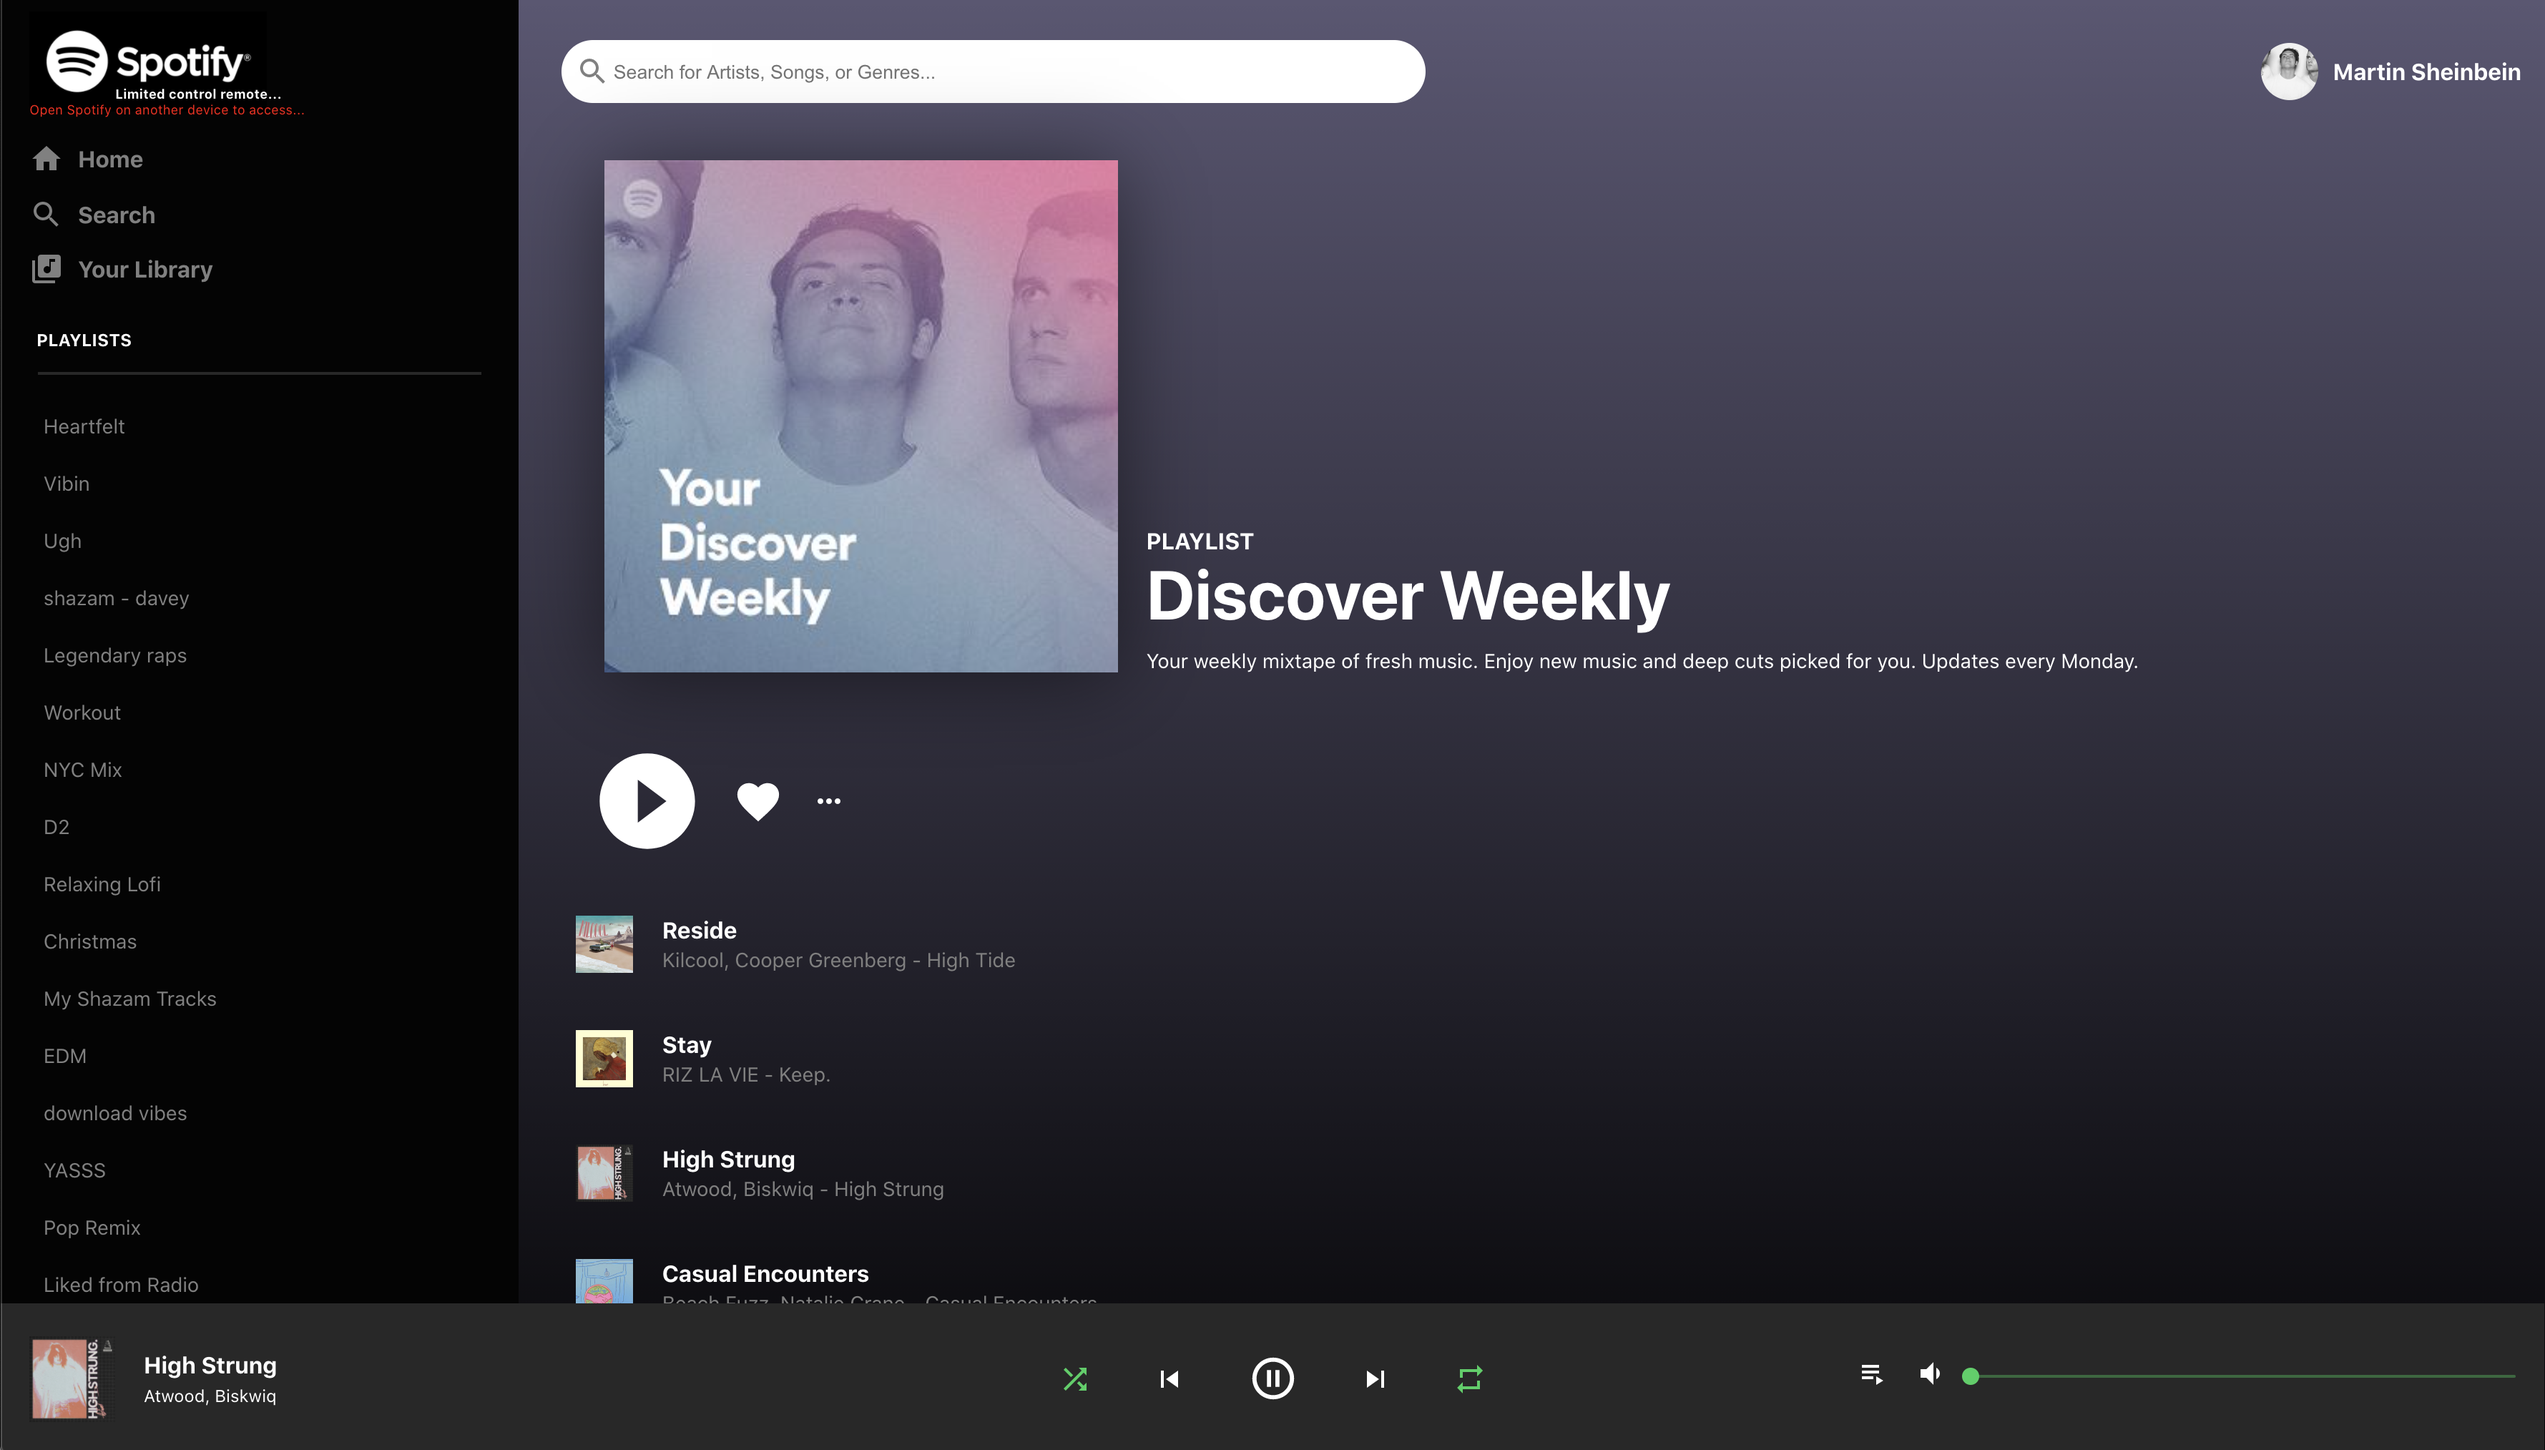
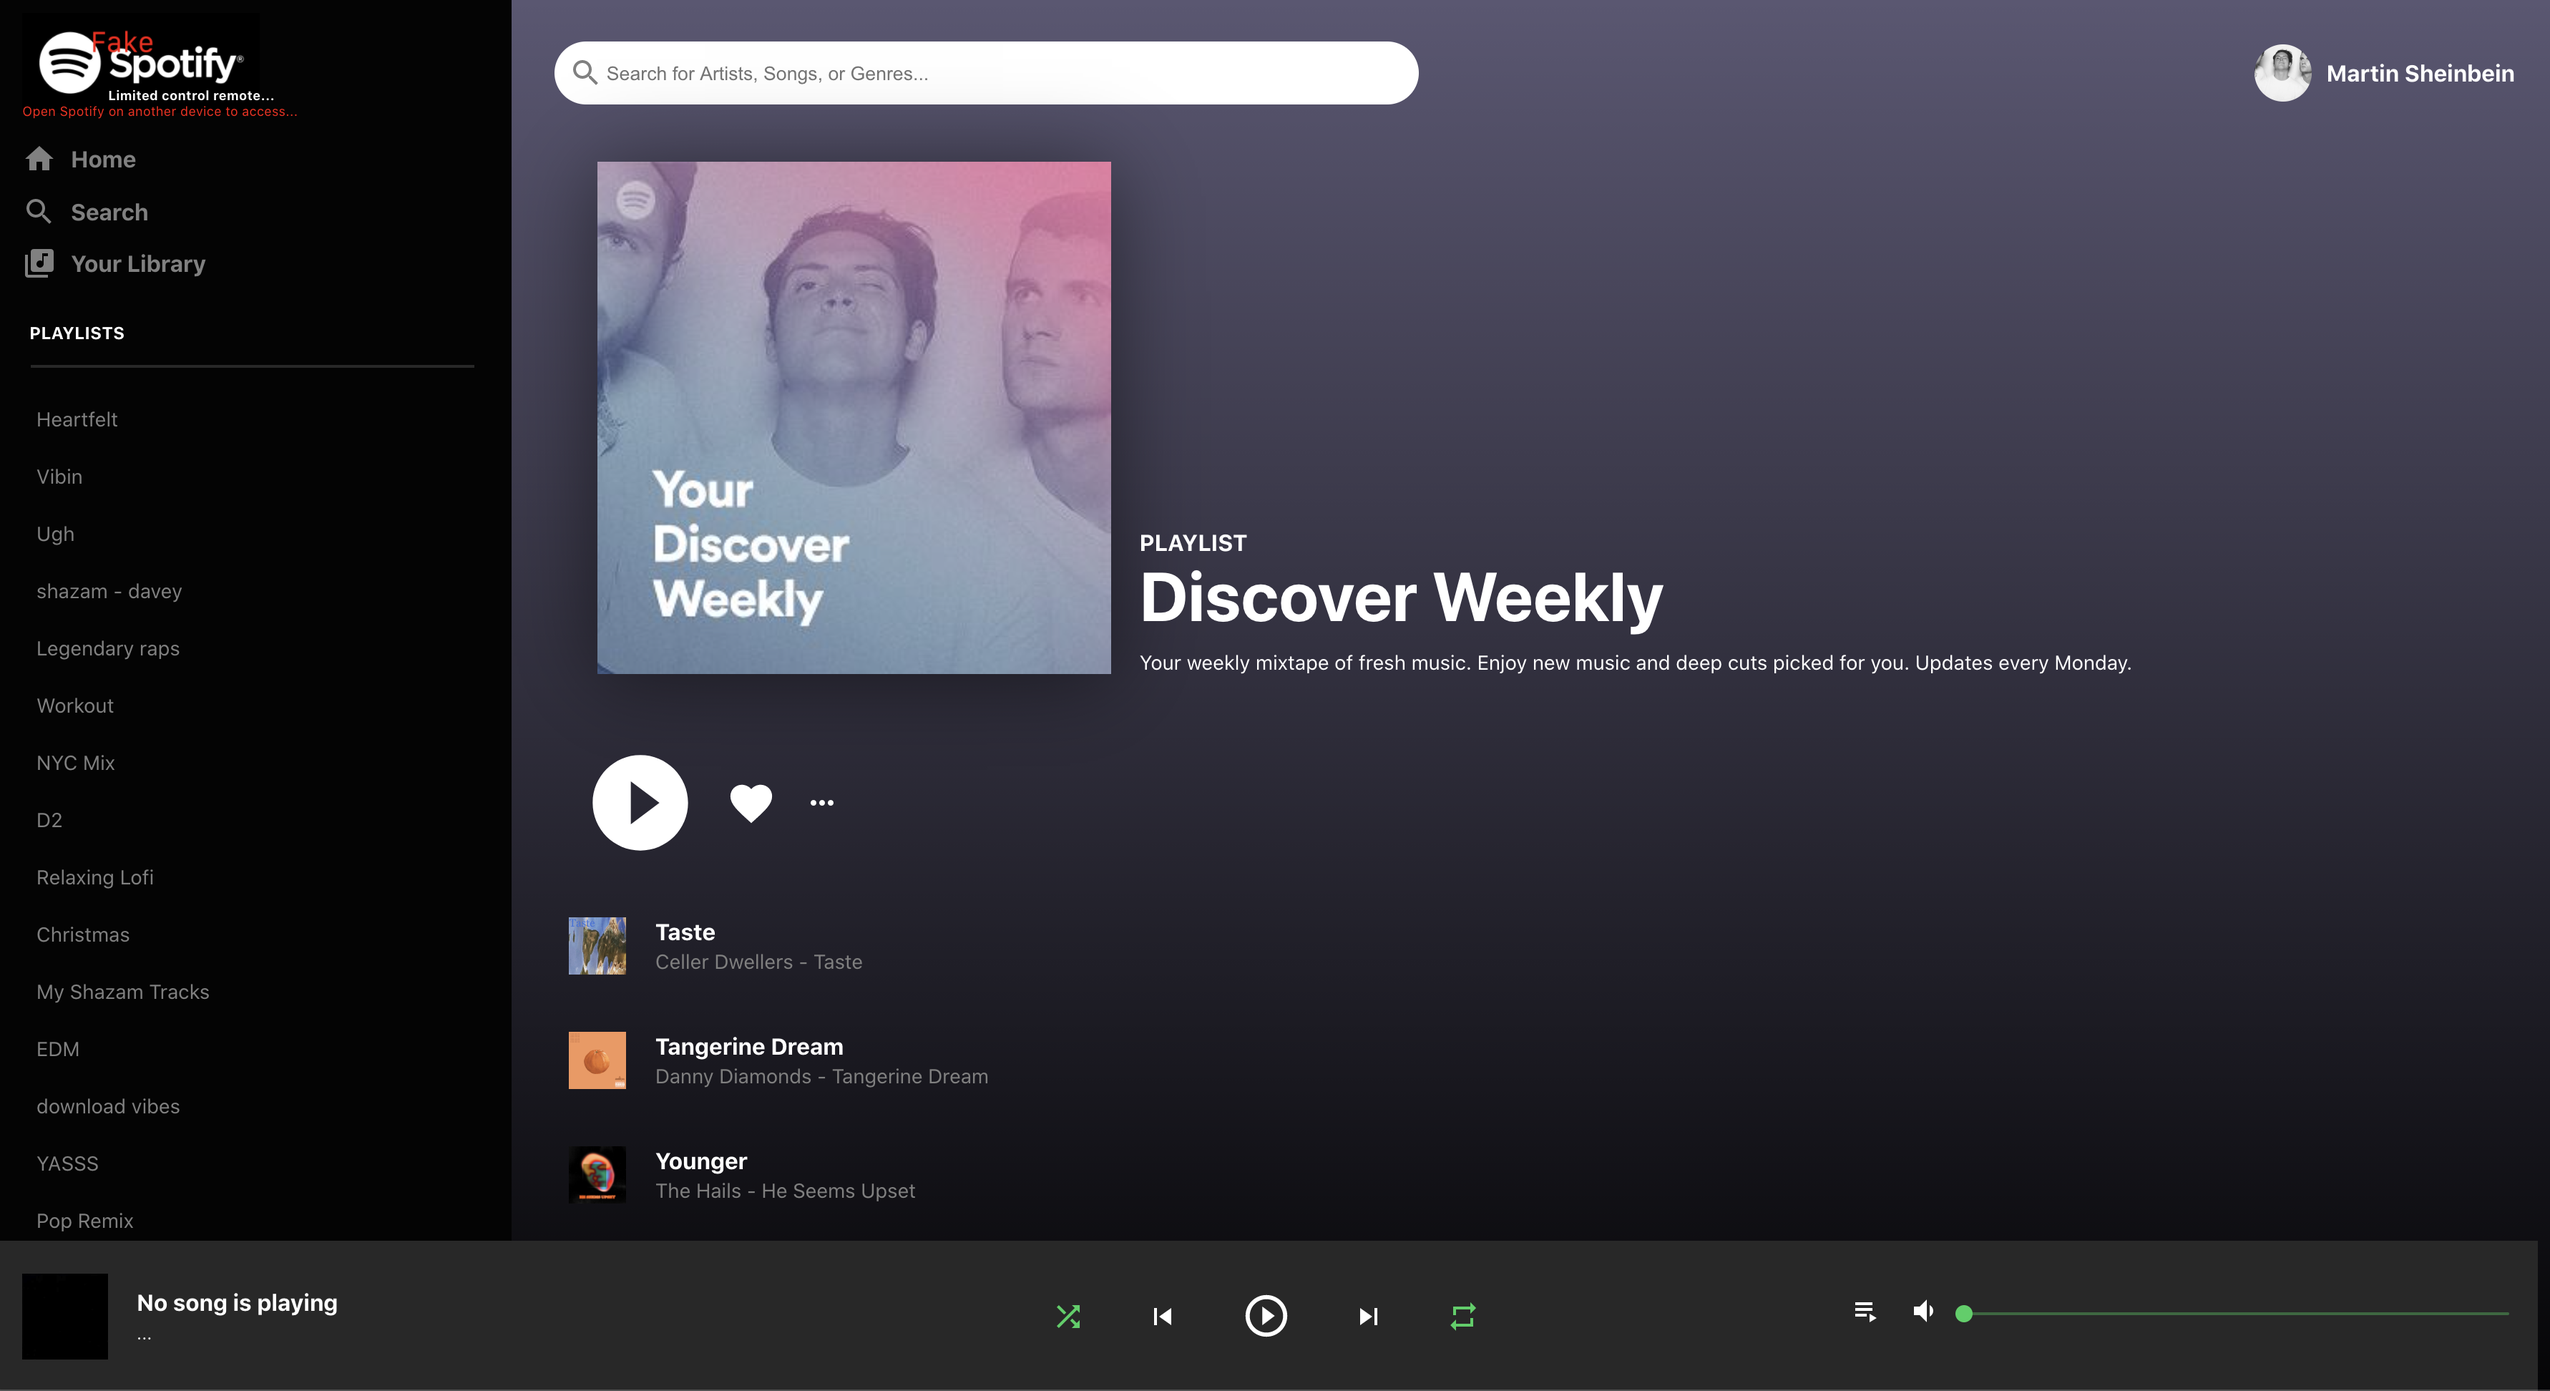
update to readme

diff --git a/src/components/Sidebar/Sidebar.jsx b/src/components/Sidebar/Sidebar.jsx
@@ -9,6 +9,8 @@ import {
 } from '@material-ui/icons';
 // State from context API
 import { useStateValue } from '../../StateProvider';
+// import logo
+import spotifyLogo from '../../images/fakeSpotifyLogo.png';
 import './style/Sidebar.css';
 
 function Sidebar() {
@@ -18,7 +20,7 @@ function Sidebar() {
 		<div className='sidebar'>
 			<img
 				className='sidebar__logo'
-				src='https://getheavy.com/wp-content/uploads/2019/12/spotify2019-830x350.jpg'
+				src={spotifyLogo}
 				alt='Spotify Logo'
 			/>
 			<div className='sidebar__subText'>

diff --git a/src/components/Login/Login.jsx b/src/components/Login/Login.jsx
@@ -1,15 +1,13 @@
 import React from 'react';
 // API Login Functionality
 import { loginUrl } from '../../spotify';
+import spotifyLogo from '../../images/fakeSpotifyLogo.png';
 import './style/Login.css';
 
 function Login() {
 	return (
 		<div className='login'>
-			<img
-				src='https://getheavy.com/wp-content/uploads/2019/12/spotify2019-830x350.jpg'
-				alt='Spotify Logo'
-			/>
+			<img src={spotifyLogo} alt='Spotify Logo' />
 			<a href={loginUrl}>LOGIN WITH SPOTIFY</a>
 		</div>
 	);
